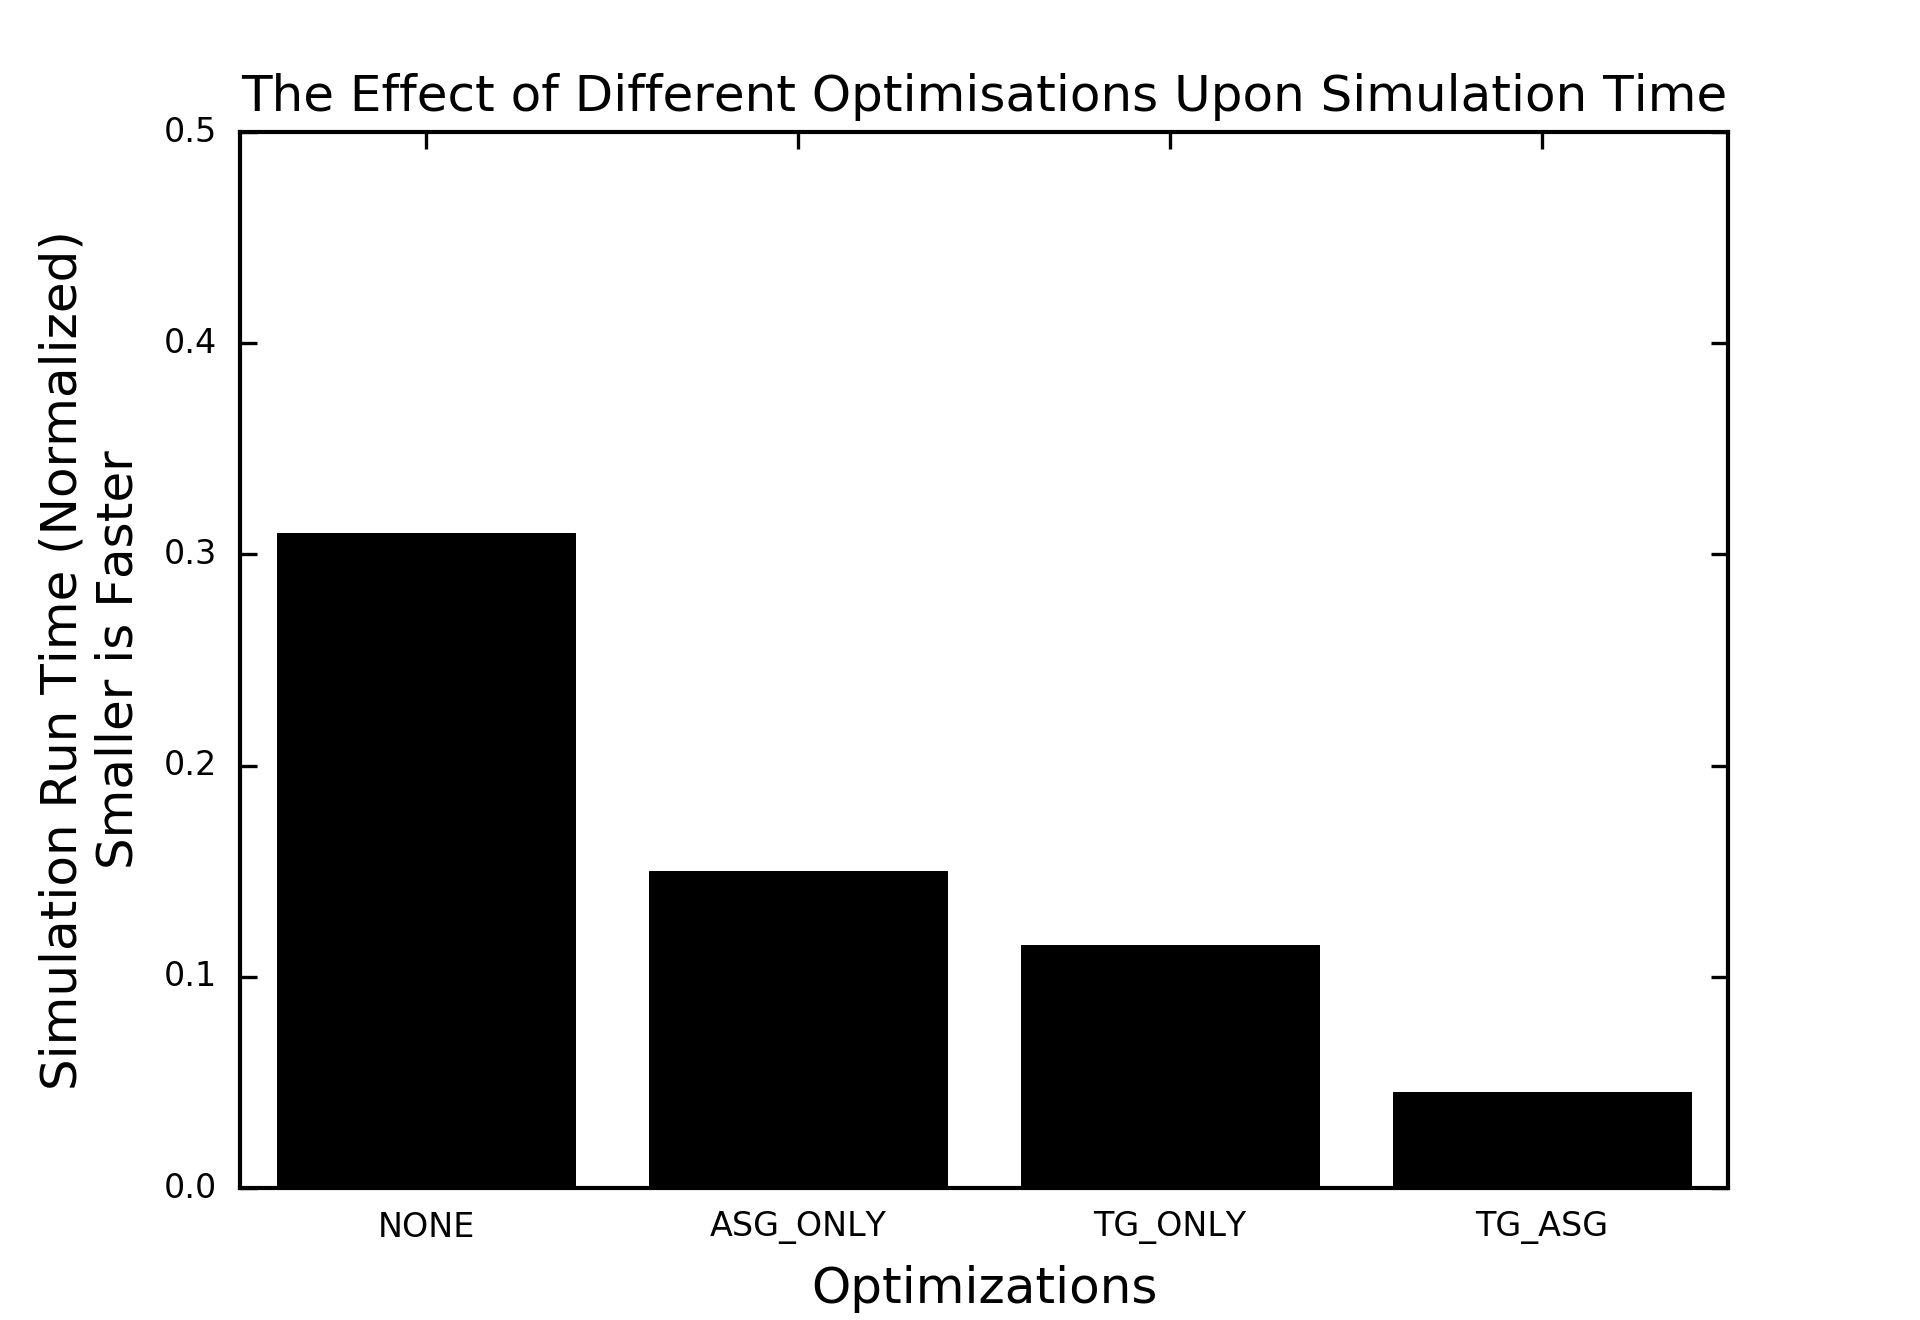
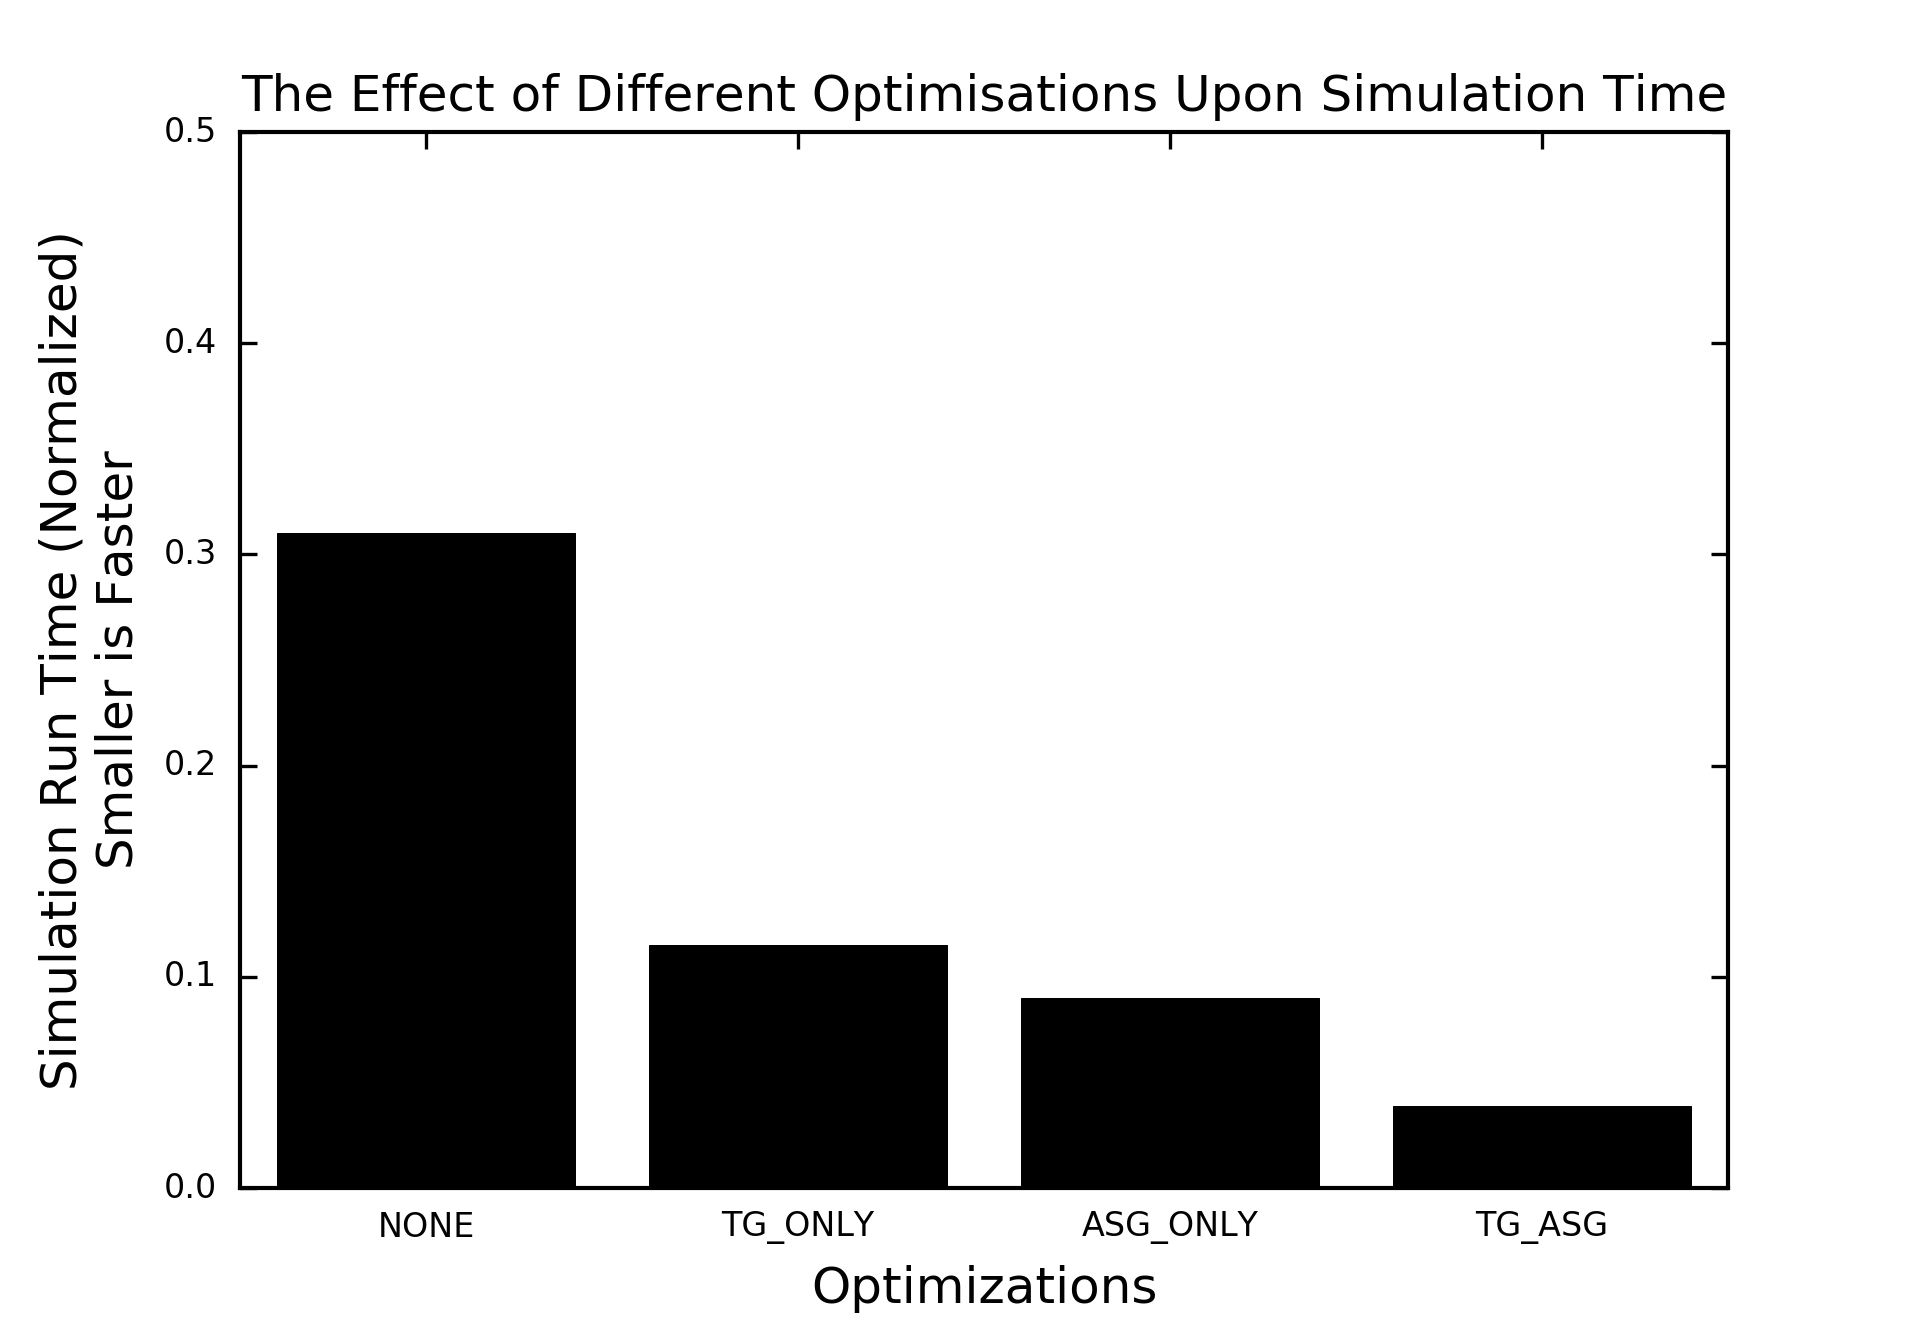
Adding further speed comparison plots (spike vs auryn on multithreading, spike vs genn on delays)

diff --git a/Benchmarks/VogelsAbbott/_results/auryn_multithreaded/plotting.py b/Benchmarks/VogelsAbbott/_results/auryn_multithreaded/plotting.py
@@ -1,7 +1,8 @@
 import matplotlib.pyplot as plt
 import numpy as np
 from scipy.optimize import curve_fit
-plt.style.use('ggplot')
+#plt.style.use('ggplot')
+plt.style.use('seaborn-paper')
 
 
 SpikeBenchmarkPath = "../timestep_8_delay/Spike.dat"
@@ -21,7 +22,7 @@ for numCores in AurynBenchmarkCores:
 print(AurynBenchmarkCores, AurynBenchmarks)
 
 # Fitting a line
-points = np.linspace(0, 8, 100)
+points = np.linspace(1, 8, 100)
 
 def expfunc(x, a, b, c):
     return a * np.exp(-b *x) + c
@@ -33,14 +34,15 @@ popt, pcov = curve_fit(expfunc, AurynBenchmarkCores, AurynBenchmarks)
 
 # Plotting single timestep results
 fig, ax = plt.subplots()
-ax.set_title("Multi-Threaded Vogels Abbot Benchmark Comparison")
+ax.set_title("Multi-Threaded Vogels Abbot Benchmark Comparison\nauryn vs Spike", size=12)
 ax.scatter(AurynBenchmarkCores, AurynBenchmarks, color='k', zorder=2, s=50)
-ax.plot([0, 8], [SpikeBenchmark, SpikeBenchmark], color='r', linewidth = 5, alpha=0.5, zorder=1, label="Spike", linestyle='--')
-ax.plot(points, expfunc(points, *popt), color='k', linewidth = 5, alpha=0.5, zorder=1, label="auryn")
+ax.scatter([1], [SpikeBenchmark], color='r', zorder=2, s=50)
+ax.plot([1, 8], [SpikeBenchmark, SpikeBenchmark], color='r', linewidth = 3, alpha=0.75, zorder=1, label="Spike", linestyle='--')
+ax.plot(points, expfunc(points, *popt), color='k', linewidth = 3, alpha=0.75, zorder=1, label="auryn")
 ax.legend()
-ax.set_xlabel("Number of CPU Cores")
-ax.set_ylabel("Simulation Run Time (Normalized)")
+ax.set_xlabel("Number of CPU Cores", size=12)
+ax.set_ylabel("Simulation Run Time (Normalized)", size=12)
 ax.set_ylim([10.0**-2, 10.0**0])
 ax.set_yscale('log')
-fig.savefig('multithreaded_comparison.png')
+fig.savefig('multithreaded_comparison.png', dpi=300)
 #plt.show()

diff --git a/Benchmarks/VogelsAbbott/_results/plotting.py b/Benchmarks/VogelsAbbott/_results/plotting.py
@@ -1,9 +1,10 @@
 import matplotlib.pyplot as plt
-plt.style.use('ggplot')
+#plt.style.use('ggplot')
+plt.style.use('seaborn-paper')
 
 simulators = [
         "Spike",
-        "genn",
+        "GeNN",
         "auryn",
         "ANNarchy",
         "brian2",
@@ -44,15 +45,15 @@ fig.savefig('single_delay_comparison.png')
 
 
 fig, ax = plt.subplots()
-ax.set_title("Vogels-Abbott Benchmark w/ 0.8ms synaptic delays")
+ax.set_title("Comparing Simulators with the Vogels-Abbott Benchmark", size=12)
 ax.bar(
         range(len(simulators)),
         eight_timestep_delay_results,
         tick_label=simulators,
         align='center', color='k')
-ax.set_xlabel("Simulator")
-ax.set_ylabel("Simulation Run Time (Normalized)")
+ax.set_xlabel("Simulator", size=12)
+ax.set_ylabel("Normalized Simulation Run Time\n(Shorter is faster)", size=12)
 ax.set_ylim([10.0**-2, 10.0**2])
 ax.set_yscale('log')
-fig.savefig('eight_delay_comparison.png')
+fig.savefig('eight_delay_comparison.png', dpi=300)
 #plt.show()

diff --git a/Benchmarks/Brunel/_results/plotting.py b/Benchmarks/Brunel/_results/plotting.py
@@ -1,6 +1,7 @@
 import matplotlib.pyplot as plt
 import numpy as np
-plt.style.use('ggplot')
+#plt.style.use('ggplot')
+plt.style.use('seaborn-paper')
 
 simulators = [
         "Spike",
@@ -29,7 +30,7 @@ for s in simulators:
 
 # Plotting single timestep results
 fig, ax = plt.subplots()
-ax.set_title("Brunel 10^7 Synapse Benchmark Result")
+ax.set_title("Comparison Simulator with the Brunel Benchmark", size=12)
 #tick_label=simulators,
 barwidth = 0.4
 ax.bar(
@@ -45,10 +46,10 @@ ax.bar(
 
 ax.set_xticks(np.arange(len(simulators)))
 ax.set_xticklabels(simulators)
-ax.set_xlabel("Simulator")
-ax.set_ylabel("Simulation Run Time (Normalized)")
+ax.set_xlabel("Simulator", size=12)
+ax.set_ylabel("Simulation Run Time (Normalized)", size=12)
 ax.set_yscale('log')
 ax.set_ylim([10.0**-2, 10.0**4])
 ax.legend()
-fig.savefig('speed_comparison.png')
+fig.savefig('Brunel_Comparison.png', dpi=300)
 #plt.show()

diff --git a/Benchmarks/VogelsAbbott/_results/SpikePerformanceComparison/plotting.py b/Benchmarks/VogelsAbbott/_results/SpikePerformanceComparison/plotting.py
@@ -4,8 +4,8 @@ plt.style.use('seaborn-paper')
 
 comparisons = [
         "NONE",
-        "ASG_ONLY",
         "TG_ONLY",
+        "ASG_ONLY",
         "TG_ASG",
         ]
 
